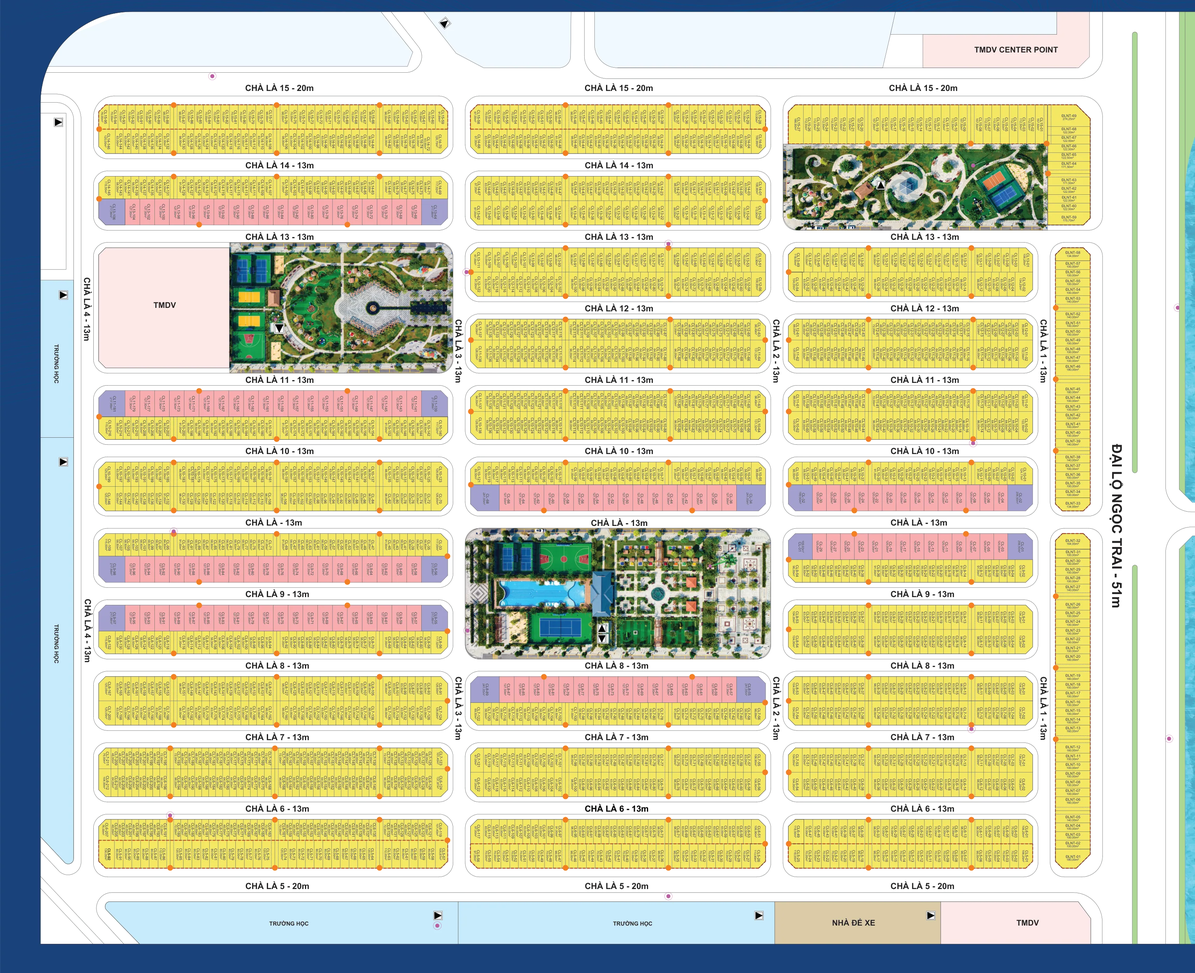
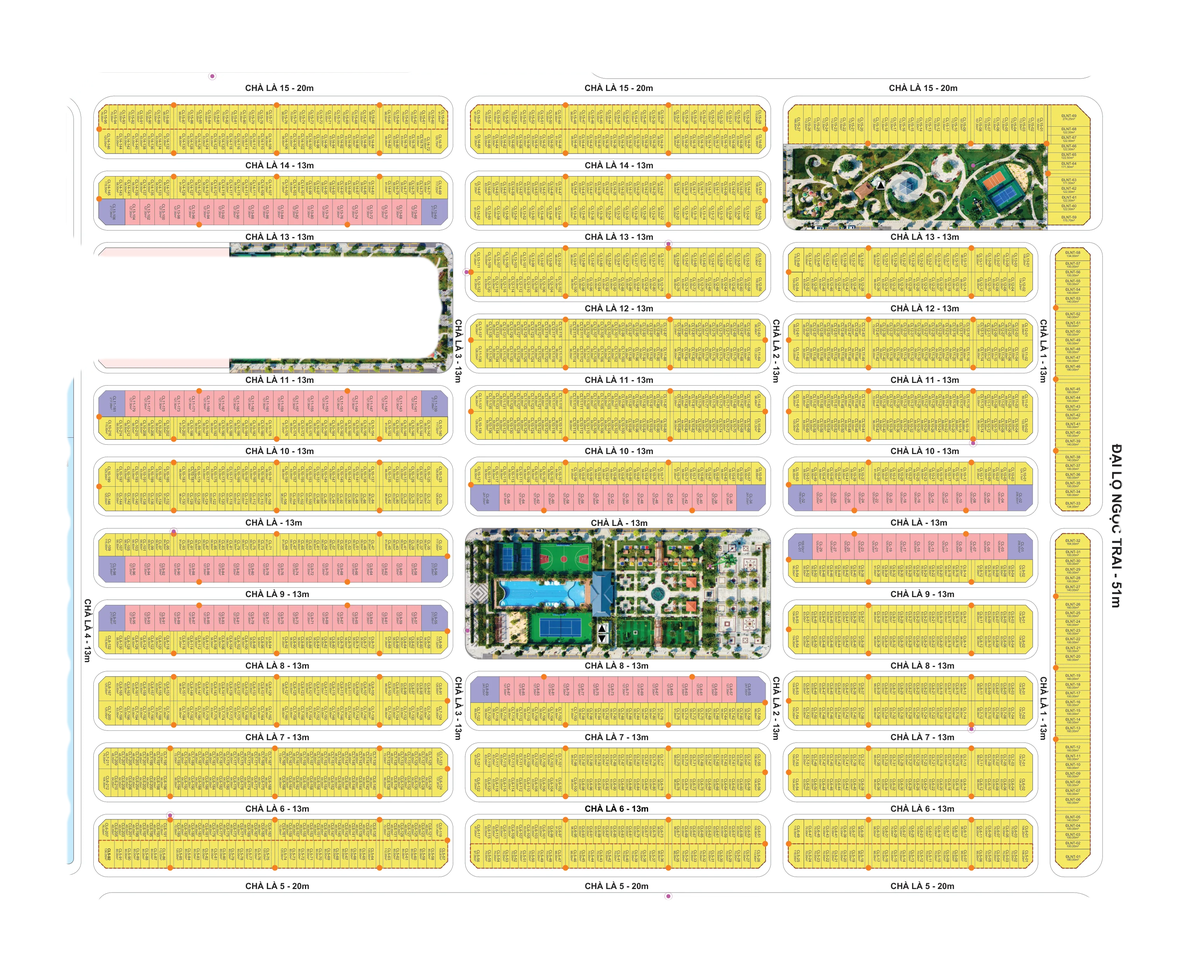
Ocean City: nền mặt bằng chỉ trong khu vực lô, nhãn phân khu gọn hơn
Claude-Session: https://claude.ai/code/session_015zBji27oJyCYvQz1h5YhVX

Changed region(s): [[0.0, 0.0, 1.0, 1.0], [0.1875, 0.2493, 0.375, 0.374]]

diff --git a/du-an/Ocean-City/sa-ban.js b/du-an/Ocean-City/sa-ban.js
@@ -193,8 +193,9 @@ const AMEN0 = [['VinWonders Hải Vân', 760, 330], ['Botanica Park', 430, 1138]
 // toạ độ tiện ích theo ảnh nền 2048px -> mét
 const k2m = W / 2048;
 for (const [t, x, z] of data.meta.amen || []) addLabel('zone tv', t, X(x), 30, Z(z), 0, 3400);
-for (const [t, x, z] of data.meta.zones || []) addLabel('zone', t, X(x), 40, Z(z), 700, 14000);
-addLabel('zone tv', 'VINHOMES OCEAN PARK 2 · THE EMPIRE', X(1700), 60, Z(150), 3000, 30000); addLabel('zone tv', 'VINHOMES OCEAN PARK 3 · THE CROWN', X(3700), 60, Z(400), 3000, 30000);
+for (const [t, x, z] of data.meta.zones || []) addLabel('zone', t, X(x), 40, Z(z), 500, 7500);
+for (const [t, set] of [['VINHOMES OCEAN PARK 2 · THE EMPIRE', l => !OCP3.has(l.zone)], ['VINHOMES OCEAN PARK 3 · THE CROWN', l => OCP3.has(l.zone)]]) {
+  const g = lots.filter(set); let x = 0, z = 1e9; g.forEach(l => { x += l.cx; z = Math.min(z, l.cz) }); addLabel('zone tv', t, x / g.length, 60, z - 120, 5000, 30000) }
 
 const v = new THREE.Vector3();
 function placeLabels() {

diff --git a/du-an/Ocean-City/index.html b/du-an/Ocean-City/index.html
@@ -301,7 +301,7 @@ button:focus-visible,a:focus-visible{outline:3px solid var(--or);outline-offset:
  </div>
 </div>
 <div id="who" hidden><span>Xin chào, <b></b></span><button id="logout" type="button">Đăng xuất</button></div>
-<script type="module" src="sa-ban.js?v=1"></script>
+<script type="module" src="sa-ban.js?v=2"></script>
 <script type="module" src="auth.js"></script>
 </body>
 </html>
